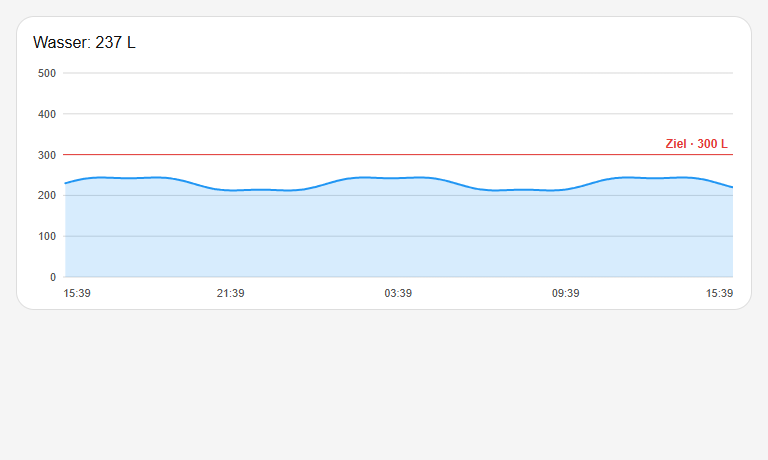
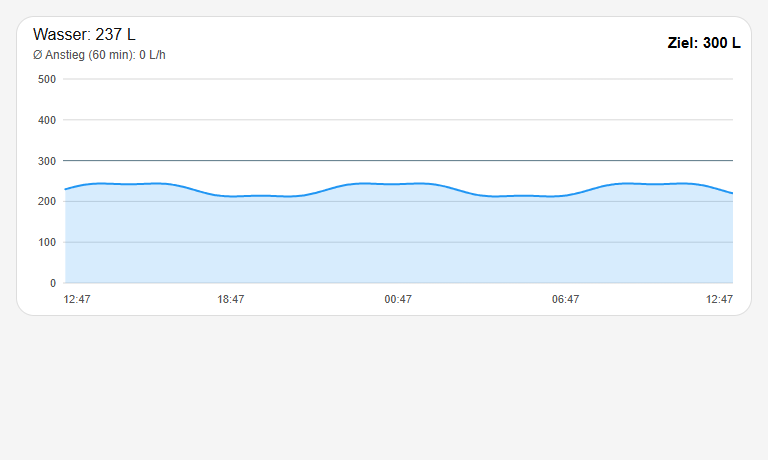
Add positive 60-minute tank increase

diff --git a/water-history-target-card.js b/water-history-target-card.js
@@ -1,6 +1,8 @@
 const SVG_NS = "http://www.w3.org/2000/svg";
 const CARD_TAG = "water-history-target-card";
 const CHART_HEIGHT = 250;
+const HOUR_MILLISECONDS = 60 * 60 * 1000;
+const INCREASE_WINDOW_MILLISECONDS = HOUR_MILLISECONDS;
 const DEFAULT_CONFIG = Object.freeze({
   config_version: 1,
   hours: 24,
@@ -100,7 +102,11 @@ export function normalizeCardConfig(config) {
 export function buildStatisticsRequest(config, endTime = Date.now()) {
   const end = finiteNumber(endTime);
   if (end === null) throw new Error("A finite end time is required.");
-  const start = end - config.hours * 60 * 60 * 1000;
+  const period = PERIOD_MILLISECONDS[config.period] ?? 0;
+  const increaseLookback = period > 0 && period <= INCREASE_WINDOW_MILLISECONDS
+    ? INCREASE_WINDOW_MILLISECONDS + period
+    : INCREASE_WINDOW_MILLISECONDS;
+  const start = end - Math.max(config.hours * HOUR_MILLISECONDS, increaseLookback);
   return {
     type: "recorder/statistics_during_period",
     start_time: new Date(start).toISOString(),
@@ -155,6 +161,55 @@ export function splitSeriesByGap(points, expectedInterval, multiplier = 2.5) {
     segments.at(-1).push(point);
   }
   return segments;
+}
+
+export function averagePositiveIncreaseRate(
+  points,
+  endTime = Date.now(),
+  windowMilliseconds = INCREASE_WINDOW_MILLISECONDS,
+  expectedInterval = PERIOD_MILLISECONDS["5minute"],
+) {
+  const end = finiteNumber(endTime);
+  const window = finiteNumber(windowMilliseconds);
+  const interval = finiteNumber(expectedInterval);
+  if (
+    !Array.isArray(points) ||
+    end === null ||
+    window === null ||
+    interval === null ||
+    window <= 0 ||
+    interval <= 0 ||
+    interval > window
+  ) return null;
+
+  const start = end - window;
+  const maximumGap = interval * 2.5;
+  const usable = points
+    .map((point) => ({
+      timestamp: finiteNumber(point?.timestamp),
+      value: finiteNumber(point?.value),
+    }))
+    .filter((point) => point.timestamp !== null && point.value !== null)
+    .sort((a, b) => a.timestamp - b.timestamp);
+
+  let coveredMilliseconds = 0;
+  let positiveIncrease = 0;
+  for (let index = 1; index < usable.length; index += 1) {
+    const previous = usable[index - 1];
+    const current = usable[index];
+    const gap = current.timestamp - previous.timestamp;
+    if (gap <= 0 || gap > maximumGap) continue;
+    const overlapStart = Math.max(start, previous.timestamp);
+    const overlapEnd = Math.min(end, current.timestamp);
+    if (overlapEnd <= overlapStart) continue;
+    const overlap = overlapEnd - overlapStart;
+    coveredMilliseconds += overlap;
+    const difference = current.value - previous.value;
+    if (difference > 0) positiveIncrease += difference * (overlap / gap);
+  }
+
+  if (coveredMilliseconds < Math.max(interval, window - interval)) return null;
+  return positiveIncrease * (HOUR_MILLISECONDS / window);
 }
 
 function formatCoordinate(value) {
@@ -516,12 +571,24 @@ export class WaterHistoryTargetCard extends HTMLElementBase {
         .header {
           min-width: 0;
           flex: 1 1 auto;
+        }
+        .water-value {
           color: var(--primary-text-color);
           font-size: 16px;
           font-weight: 500;
           line-height: 24px;
         }
-        .header.unavailable { color: var(--secondary-text-color); }
+        .water-value.unavailable { color: var(--secondary-text-color); }
+        .increase-header {
+          overflow: hidden;
+          color: var(--secondary-text-color);
+          font-size: 12px;
+          font-weight: 400;
+          font-variant-numeric: tabular-nums;
+          line-height: 16px;
+          text-overflow: ellipsis;
+          white-space: nowrap;
+        }
         .target-header {
           flex: 0 0 auto;
           appearance: none;
@@ -665,7 +732,10 @@ export class WaterHistoryTargetCard extends HTMLElementBase {
       </style>
       <ha-card>
         <div class="header-row">
-          <div class="header">Wasser: —</div>
+          <div class="header">
+            <div class="water-value">Wasser: —</div>
+            <div class="increase-header">Ø Anstieg (60 min): —</div>
+          </div>
           <button class="target-header" type="button" aria-haspopup="dialog" aria-controls="target-dialog" disabled>Ziel: —</button>
         </div>
         <div class="chart">
@@ -706,7 +776,8 @@ export class WaterHistoryTargetCard extends HTMLElementBase {
         </dialog>
       </ha-card>
     `;
-    this._header = this.shadowRoot.querySelector(".header");
+    this._waterHeader = this.shadowRoot.querySelector(".water-value");
+    this._increaseHeader = this.shadowRoot.querySelector(".increase-header");
     this._targetHeader = this.shadowRoot.querySelector(".target-header");
     this._chart = this.shadowRoot.querySelector(".chart");
     this._svg = this.shadowRoot.querySelector("svg");
@@ -837,8 +908,8 @@ export class WaterHistoryTargetCard extends HTMLElementBase {
   _syncEntityStates() {
     if (!this._config || !this._hass || !this._domReady) return;
     const water = finiteNumber(this._hass.states?.[this._config.entity]?.state);
-    this._header.textContent = `Wasser: ${water === null ? "—" : `${Math.round(water)} L`}`;
-    this._header.classList.toggle("unavailable", water === null);
+    this._waterHeader.textContent = `Wasser: ${water === null ? "—" : `${Math.round(water)} L`}`;
+    this._waterHeader.classList.toggle("unavailable", water === null);
     const target = finiteNumber(this._hass.states?.[this._config.target_entity]?.state);
     this._updateTargetHeader(target);
     if (
@@ -860,7 +931,11 @@ export class WaterHistoryTargetCard extends HTMLElementBase {
   _maybeLoadHistory(force = false) {
     if (!this._runtimeAttached || !this._hass || typeof this._hass.callWS !== "function") return;
     const now = Date.now();
-    if (this._historyState === "loading") return;
+    const refreshInterval = PERIOD_MILLISECONDS[this._config.period];
+    if (this._historyState === "loading") {
+      if (force) this._armHistoryRefresh(refreshInterval);
+      return;
+    }
     if (!force && now < this._nextHistoryRefreshAt) return;
     const generation = ++this._historyGeneration;
     const request = buildStatisticsRequest(this._config, now);
@@ -868,8 +943,8 @@ export class WaterHistoryTargetCard extends HTMLElementBase {
     const entity = this._config.entity;
     this._historyState = "loading";
     this._historyError = null;
-    this._nextHistoryRefreshAt = now + PERIOD_MILLISECONDS[this._config.period];
-    this._armHistoryRefresh(PERIOD_MILLISECONDS[this._config.period]);
+    this._nextHistoryRefreshAt = now + refreshInterval;
+    this._armHistoryRefresh(refreshInterval);
     this._scheduleDraw();
     Promise.resolve().then(() => hass.callWS(request)).then((response) => {
       if (!this._runtimeAttached || generation !== this._historyGeneration) return;
@@ -1254,6 +1329,7 @@ export class WaterHistoryTargetCard extends HTMLElementBase {
     }
     this._drawGrid(geometry);
     this._drawSeries(geometry);
+    this._drawIncrease(end);
     this._drawHistoryInspection(geometry);
     this._drawTarget(geometry);
     this._drawStatus();
@@ -1330,6 +1406,39 @@ export class WaterHistoryTargetCard extends HTMLElementBase {
       }));
     }
     this._seriesGroup.replaceChildren(...nodes);
+  }
+
+  _drawIncrease(end) {
+    const currentState = this._hass?.states?.[this._config.entity];
+    const currentWater = finiteNumber(currentState?.state);
+    const currentTimestamp = parseTimestamp(
+      currentState?.last_updated ?? currentState?.last_changed,
+    );
+    const latest = this._history.at(-1);
+    const useCurrentState =
+      currentWater !== null &&
+      currentTimestamp !== null &&
+      currentTimestamp <= end &&
+      (!latest || currentTimestamp > latest.timestamp);
+    const points = useCurrentState
+      ? [...this._history, { timestamp: currentTimestamp, value: currentWater }]
+      : this._history;
+    const rate = averagePositiveIncreaseRate(
+      points,
+      end,
+      INCREASE_WINDOW_MILLISECONDS,
+      PERIOD_MILLISECONDS[this._config.period],
+    );
+    if (rate === null) {
+      this._increaseHeader.textContent = "Ø Anstieg (60 min): —";
+      return;
+    }
+    const rounded = Math.round(rate * 10) / 10;
+    const formatted = new Intl.NumberFormat(undefined, {
+      maximumFractionDigits: 1,
+    }).format(rounded);
+    this._increaseHeader.textContent =
+      `Ø Anstieg (60 min): ${rounded > 0 ? "+" : ""}${formatted} L/h`;
   }
 
   _drawHistoryInspection(geometry) {
@@ -1448,7 +1557,7 @@ if (typeof globalThis.window !== "undefined") {
     window.customCards.push({
       type: CARD_TAG,
       name: "Water History Target Card",
-      description: "24-hour water history with an accessible draggable target line.",
+      description: "Water history, positive 60-minute increase, and an accessible draggable target line.",
       preview: false,
     });
   }

diff --git a/tests/visual-harness.html b/tests/visual-harness.html
@@ -34,7 +34,7 @@
         };
       });
       const states = {
-        [entity]: { state: "237", attributes: { unit_of_measurement: "L" } },
+        [entity]: { state: "237", last_updated: new Date(now).toISOString(), attributes: { unit_of_measurement: "L" } },
         [targetEntity]: { state: "300", attributes: { min: 0, max: 500, step: 10 } },
       };
       const card = document.createElement("water-history-target-card");

diff --git a/README.md b/README.md
@@ -6,7 +6,7 @@ A dependency-free Home Assistant Lovelace card that draws Recorder statistics an
 
 ## Version
 
-Current package version: **v1.0.3**.
+Current package version: **v1.1.0**.
 
 ## Installation with HACS
 
@@ -39,6 +39,14 @@ step: 10
 | `min` | no | `0` | Lower chart and target bound. |
 | `max` | no | `500` | Upper chart and target bound. |
 | `step` | no | `10` | Local snap and keyboard increment. |
+
+The secondary header line shows the average positive tank increase over the
+latest 60 minutes in liters per hour. It sums only upward differences between
+the five-minute Recorder means; decreases and plateaus contribute zero. The
+latest Home Assistant `last_updated` value closes the newest interval. At least
+55 of the 60 minutes must be covered; otherwise the card shows `—` instead of a
+misleading zero. Periods coarser than one hour cannot provide this metric and
+also show `—`.
 
 The line supports mouse, touch, pen, and keyboard. Its tablet-safe 72-pixel hit
 area keeps tracking on the window when SVG pointer capture is unavailable, and
